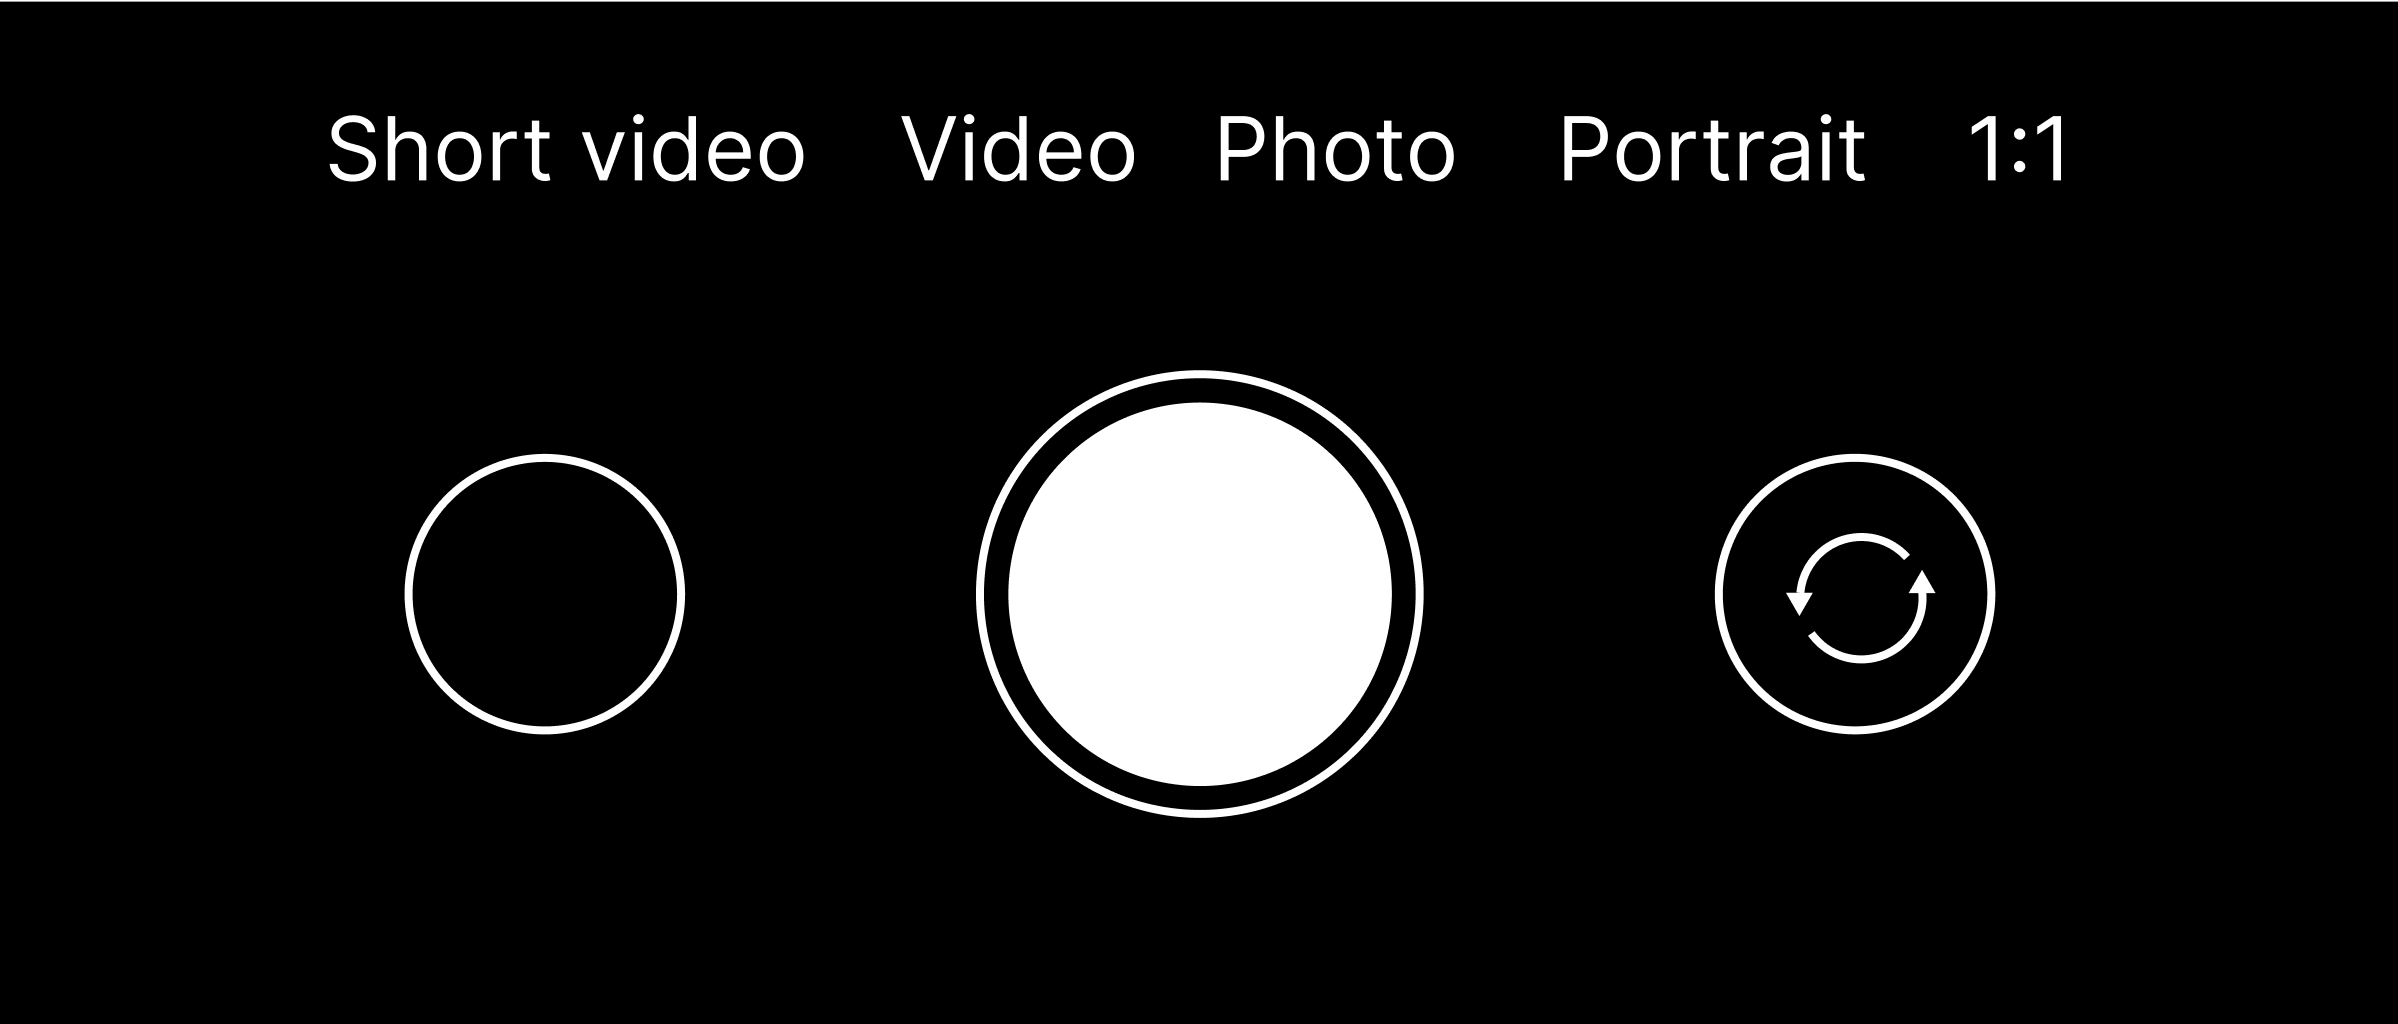
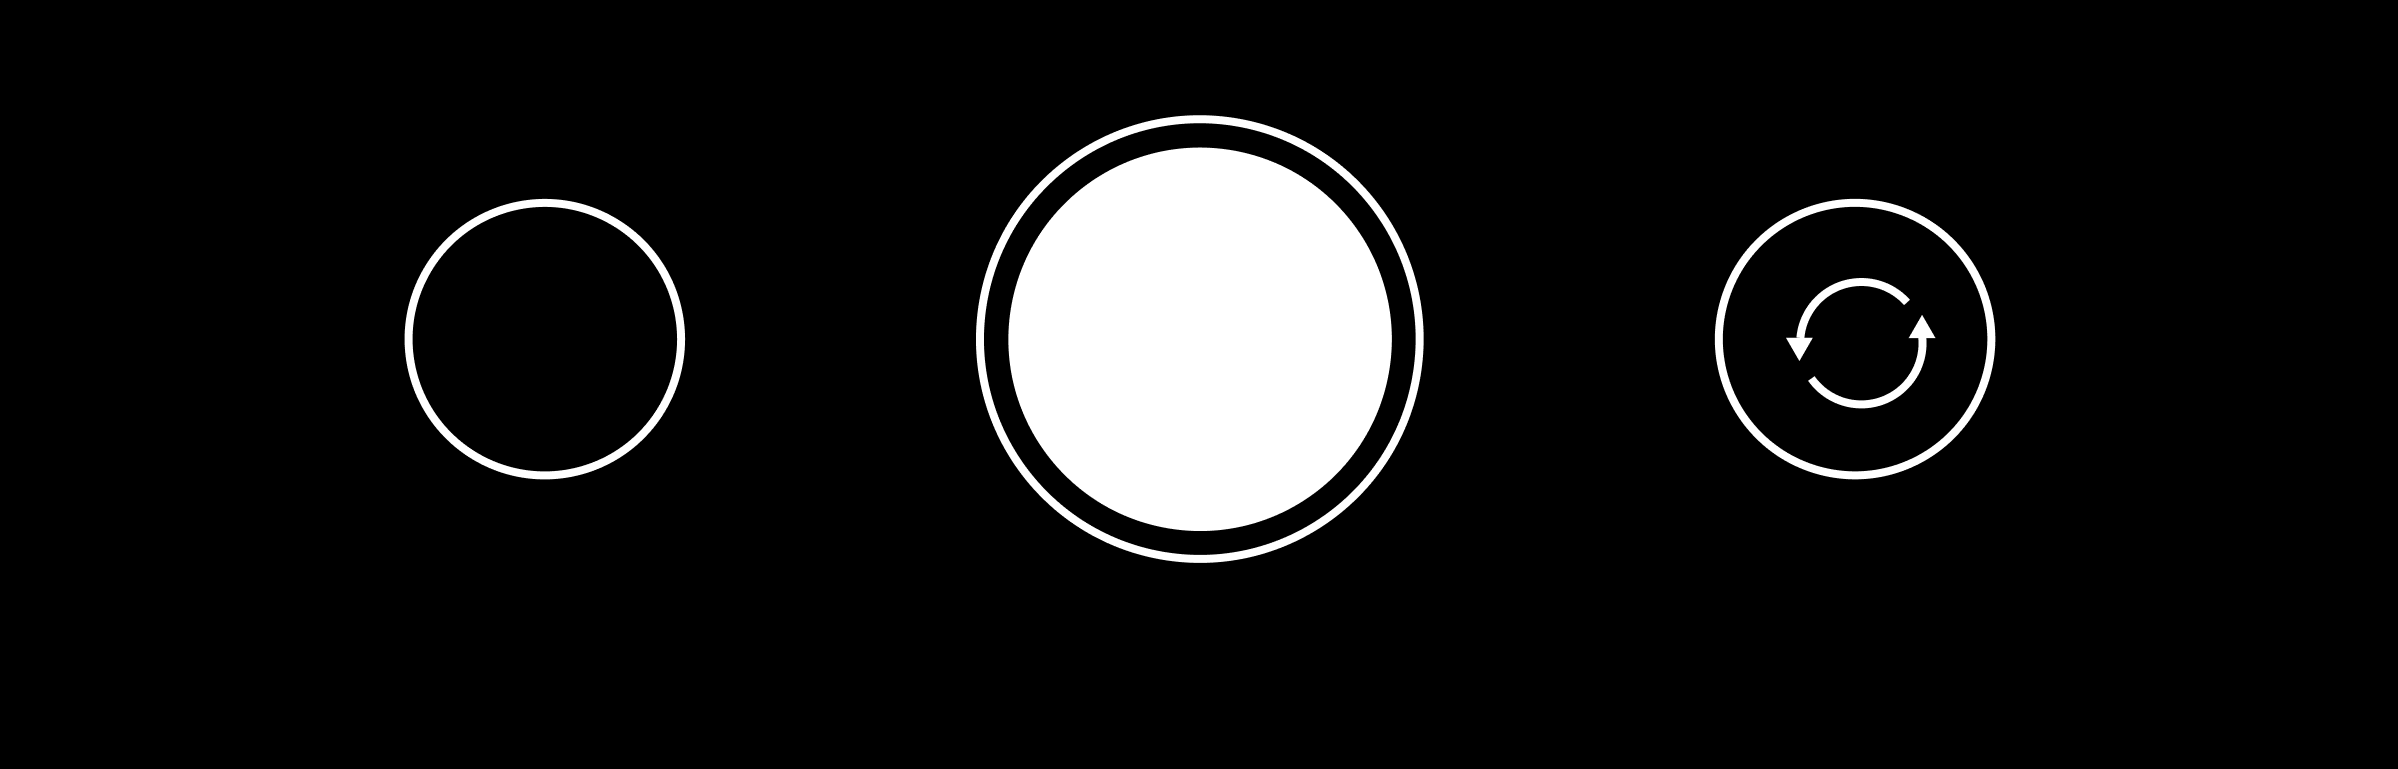
add

diff --git a/interaction-controls.js b/interaction-controls.js
@@ -18,6 +18,8 @@ export function setupInteractionControls(context) {
     let cameraStream = null;
     let cameraFacingMode = 'environment';
     let cameraRequestId = 0;
+    let cameraWasActiveBeforeHide = false;
+    let cameraRecoveryInProgress = false;
     
     function setLightState(on) {
         lightOn = on;
@@ -209,7 +211,10 @@ export function setupInteractionControls(context) {
     }
     
     cameraToggle.addEventListener('click', () => {
-        if (cameraStream) stopCamera();
+        if (cameraStream) {
+            cameraWasActiveBeforeHide = false;
+            stopCamera();
+        }
         else startCamera();
     });
     
@@ -221,6 +226,47 @@ export function setupInteractionControls(context) {
         cameraFeed.srcObject = null;
         await startCamera();
     });
+
+    async function resumeCameraAfterVisibility() {
+        if (
+            document.visibilityState === 'hidden' ||
+            !cameraWasActiveBeforeHide ||
+            cameraRecoveryInProgress
+        ) {
+            return;
+        }
+
+        cameraWasActiveBeforeHide = false;
+        cameraRecoveryInProgress = true;
+        const facingMode = cameraFacingMode;
+
+        if (cameraStream) stopCamera();
+        cameraFacingMode = facingMode;
+
+        try {
+            await startCamera();
+        } finally {
+            cameraRecoveryInProgress = false;
+        }
+    }
+
+    document.addEventListener('visibilitychange', () => {
+        if (document.visibilityState === 'hidden') {
+            cameraWasActiveBeforeHide ||= Boolean(cameraStream);
+            return;
+        }
+
+        resumeCameraAfterVisibility();
+    });
+
+    window.addEventListener('blur', () => {
+        cameraWasActiveBeforeHide ||= Boolean(cameraStream);
+    });
+    window.addEventListener('pagehide', () => {
+        cameraWasActiveBeforeHide ||= Boolean(cameraStream);
+    });
+    window.addEventListener('pageshow', resumeCameraAfterVisibility);
+    window.addEventListener('focus', resumeCameraAfterVisibility);
     
     function selectScreenImage(image) {
         screenImageBackLayer.querySelectorAll('.screen-image').forEach((item) => item.classList.remove('selected'));
